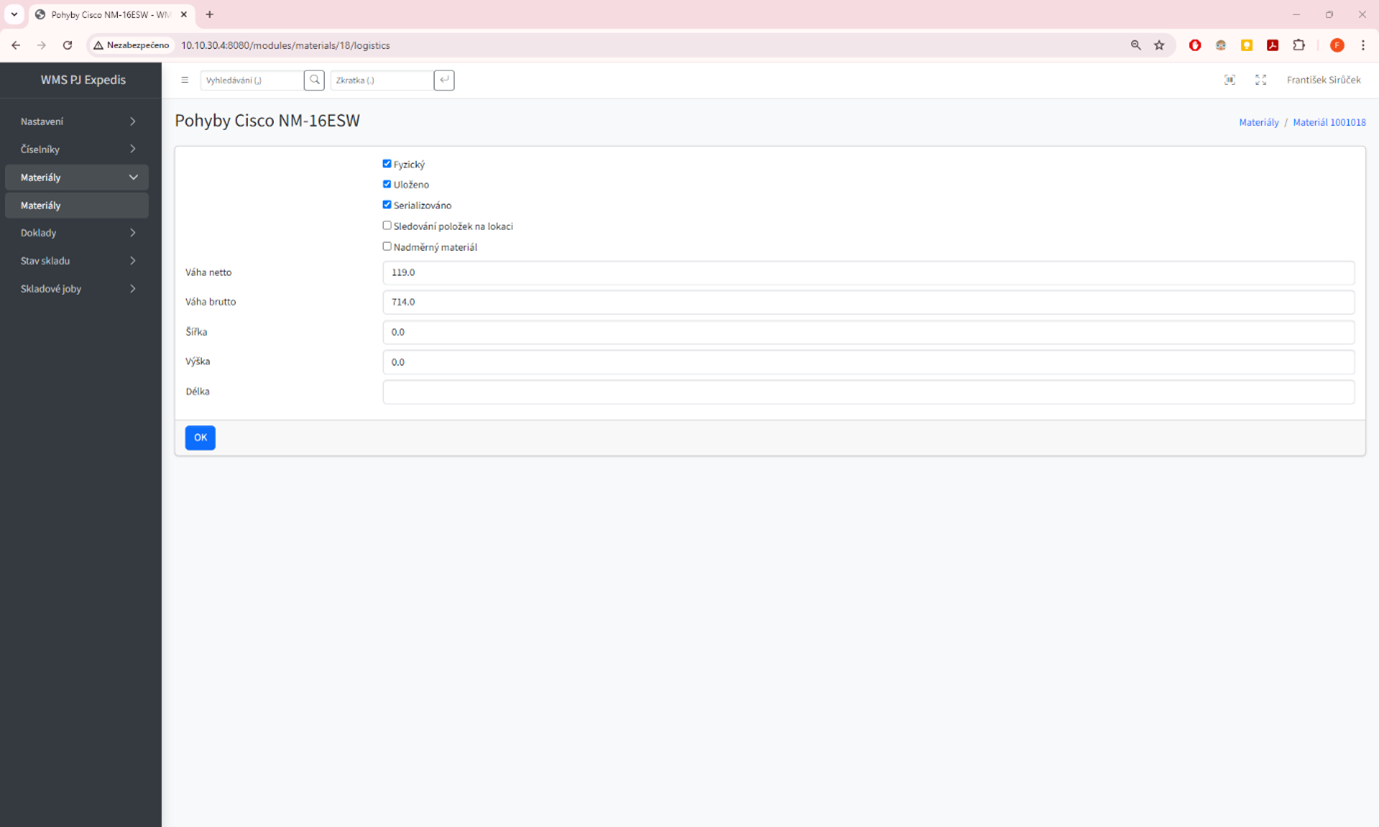
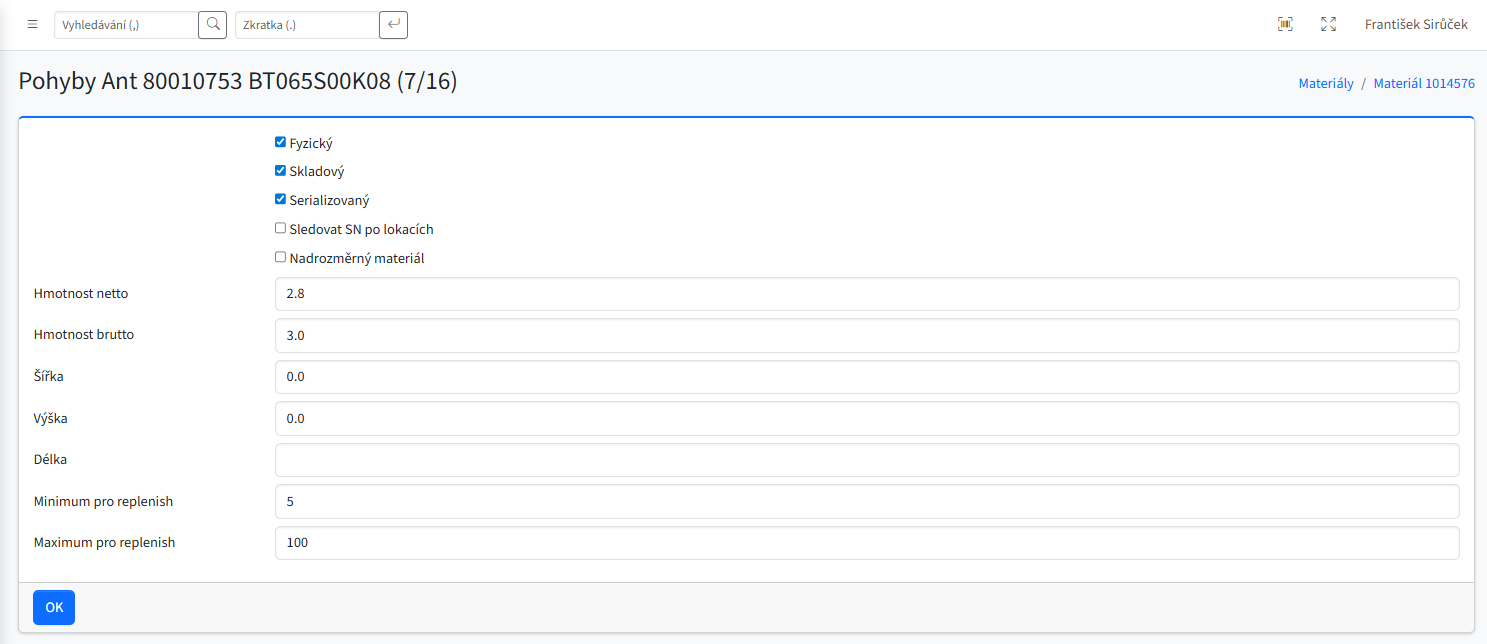
replenishment modul popis

diff --git a/content/replenish.md b/content/replenish.md
@@ -1,3 +1,63 @@
 ### Replenish
 
-To be Done
+## Obsah sekce
+
+1. [Replenish](#replenish)
+   - [Detail replenish jobu](#detail-replenish-jobu)
+2. [Proces replenishmentu](#proces_replenishmentu)
+
+<h2 id="replenish">Replenish</h2>
+Replenishmen je proces automatizovaného doplňování zásob z lokací pro nadzásobu do lokací pro pickování.
+Lokace pro nadzásbou je lokace, kam systém neposílá pickera pro zboží ale slouží k uložení zboží nad požadovanou zásobu. Jsou to lokace, které mají v nastavení zaškrtnutý parametr blokováno. Z pravidla jde o lokace ve vyšších patrech, kam se skladník nedostane jinak než s vysokozdvižnou manipulační technikou. Jinak také SWAP lokace.
+Lokace pro pickování jsou lokace, kam tedy systém při běžném picku skladníka posílá, jde o lokace, které nejsou blokované a zpravidla jde o lokace u země. Kam skladník dosáhne rukama. 
+Samozřejmě SWAPem můžou být i lokace vzdálené, v jiné budově a podobně dle provozních potřeb. 
+
+Nastavení jaký stav na lokaci má systém hlídat se nastavuje v geo datech produktu v polích minimum pro replenish a maximum pro replenish
+minumu znamená, že když zásoba na pickovacích lokacích klesne pod toto minimum tak se vygeneruje replenish
+maximum je kolik maximálně ks lze ze SWAP lokace vzít
+
+<a href="#inventury" data-bs-toggle="modal" data-bs-target="#imageModal" onclick="showImage('/content/images/doklady/inventury/inventury-radky.png')">
+   <img src="/content/images/doklady/replenish/nastaveni_na_produktu.png" alt="nastaveni_na_produktu="900" />
+</a>
+
+Pro tento provoz bylo zvolené generování replenishmentu poloautomaticky, tedy na stisk tlačítka v modulu Replenishe. Ve chvíli kdy se stiskne tlačítko Vytvořit replenish joby.
+Systém provede kontrolu skladové zásoby přes všechny produkty a lokace a pokud najde materiál s nedostatečnou zásobou na pickovací lokaci a zásobou na SWAP lokaci, tak vygeneruje job pro přeskladnění mezi těmito lokacemi. 
+Joby se pak zpracovávají aplikací Replenish
+
+<a href="#inventury" data-bs-toggle="modal" data-bs-target="#imageModal" onclick="showImage('/content/images/doklady/inventury/inventury-radky.png')">
+   <img src="/content/images/doklady/replenish/modul_replenish.png" alt="modul_replenish="900" />
+</a>
+
+Sloupce:
+- **Kód:** Unikátní identifikátor jobu (např. "RJ0000081833"). Po kliknutí na kód se zobrazí detailní informace daného jobu. S proklikem [na detail jobu](#detail-replenish-jobu)
+- **Priorita:** priorita zpracování jobu, slouží pro řazené jobů v aplikaci
+- **Účetní sklad:** účetní sklad pohybu (SAP účetní sklad)
+- **Množství:**  počet kusů k přeskladnění ze SWAP na pick lokaci
+- **P/N:** wms part number materiálu s proklikem na detail materiálu
+- **Název:** Název materiálu s proklikem na detail materiálu
+- **Zák. kód:** Part Nuber ze SAP
+- **Výr.P/N:** Part number výrobce
+- **Zdroj:** Zdrojová (SWAP) lokace
+- **Cíl:** Cílová lokace
+- **Vytvořeno:** Datum a čas, kdy byla příjemka vytvořena v systému.
+- **Vytvořil:** Kdo joby vytvořil (klik na vytvořit)
+- **Přiřazeno:** Kdo job zpracovává/al na čtečce
+- **Dokončeno:** Datum a čas, kdy byl proces příjmu dokončen.
+- **Zrušeno:** Datum a čas, kdy byl případně job stornován
+
+<h3 id="detail-replenish-jobu">Detail replenish jobu</h3>
+Obsahuje detailnější informace o pohybu. Jako je případně kontejner nebo číslo šarže a kód pro jedntolivé jobline. Pokud dojde například k rozdělení jobu při potvrzování a vrácení části jobu zpět na SWAP
+
+<a href="#inventury" data-bs-toggle="modal" data-bs-target="#imageModal" onclick="showImage('/content/images/doklady/inventury/inventury-radky.png')">
+   <img src="/content/images/doklady/replenish/detail_replenish_jobu.png" alt="detail_replenish_jobu="900" />
+</a>
+
+
+<h2 id="replenish">Proces replenishmentu</h2>
+Odpovědná osoba jednou za den nechá vygenerovat replenish joby.
+Dojde tak ke kontrole, zda je potřeba doplnit na nějaké lokace zásbou aby další dny nestál pick, kvůli nedostatečné zásobě na pick lokacích.
+Skladník pak vezme čtečku a spustí dlaždici replenish
+Systému mu bude postupně přidělovat vygenerované replenish joby a provede ho přeskladněním. 
+Načtením zdrojové lokace a informace jaký produkt z lokace a v jakém množství má vzít
+Posláním na cílovou lokaci, kterou načte a zadá kolik kusů produktu na ní reálně dal (vešlo se tam)
+V případě, že se nevešlo vše lze zboží potvrdit na jinou libovolnou lokaci nebo zpět na SWAP lokaci. 
